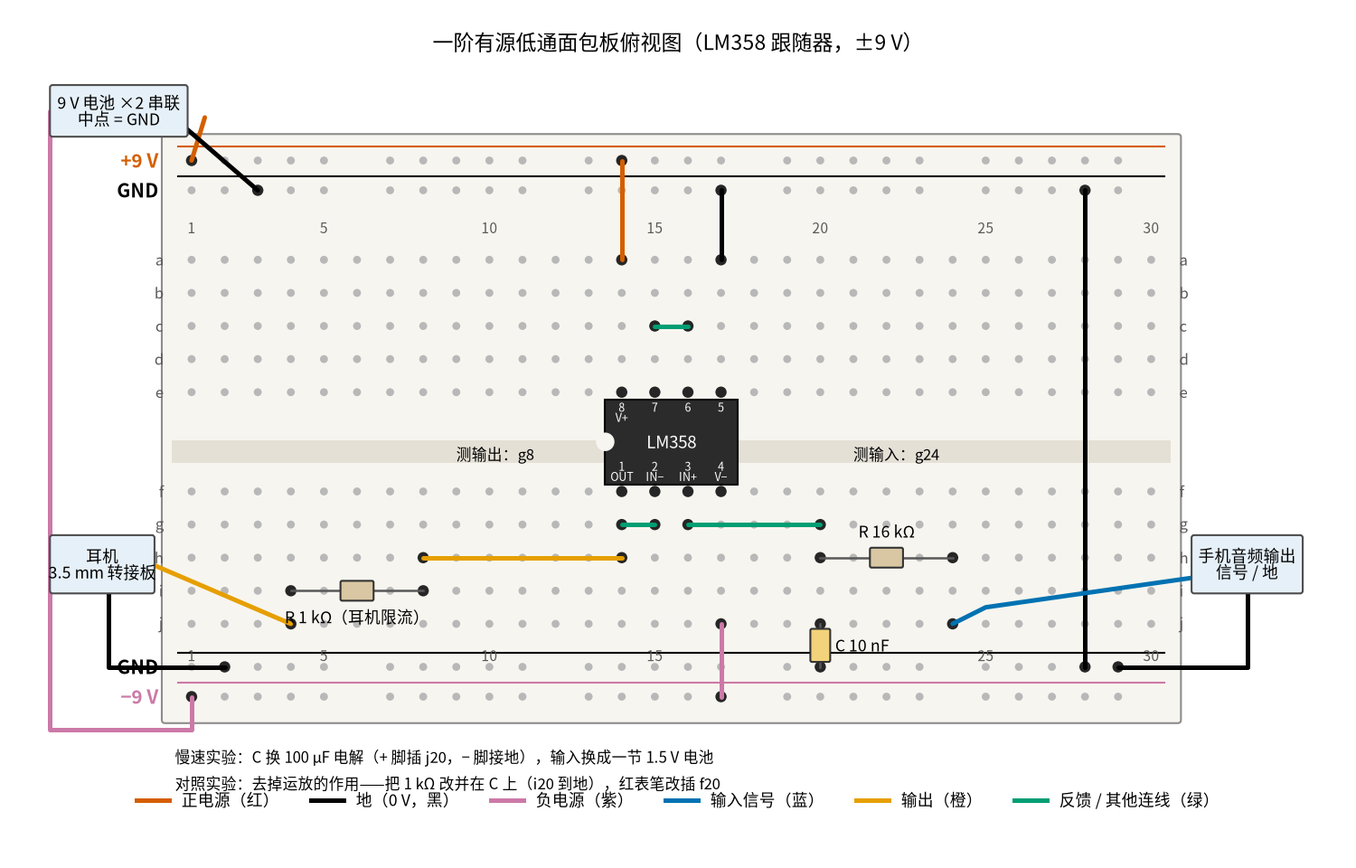
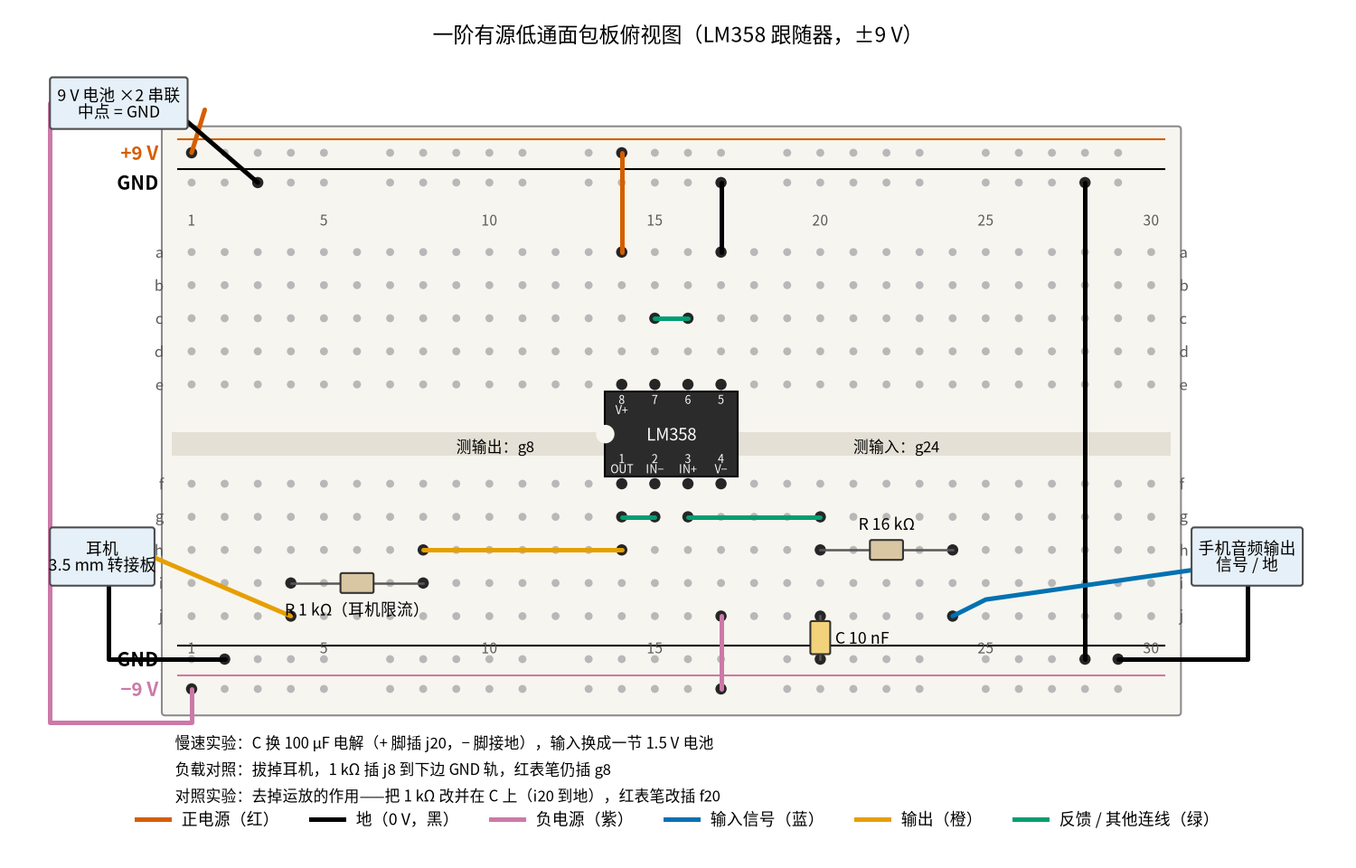
fix: 15 ⑤注记；docs: README 总表更新、AUTHOR_GUIDE 原理图与色名规则

diff --git a/code/figs/15_figs.py b/code/figs/15_figs.py
@@ -301,8 +301,10 @@ bb.wire((31.3, -4.0), "j24", "sig", via=[(25.0, -4.9)])
 bb.wire((32.9, -4.4), "B-29", "gnd", via=[(32.9, -6.7)])
 bb.note(9.0, -0.3, "测输出：g8", va="center")
 bb.note(21.0, -0.3, "测输入：g24", va="center")
-bb.note(0.5, -9.6, "慢速实验：C 换 100 µF 电解（+ 脚插 j20，− 脚接地），输入换成一节 1.5 V 电池", ha="left")
-bb.note(0.5, -10.4, "对照实验：去掉运放的作用——把 1 kΩ 改并在 C 上（i20 到地），红表笔改插 f20", ha="left")
+bb.ax.set_ylim(-12.0, 11.6)                        # 底部多一行注记，往下多留一点（不动孔位）
+bb.note(0.5, -9.4, "慢速实验：C 换 100 µF 电解（+ 脚插 j20，− 脚接地），输入换成一节 1.5 V 电池", ha="left")
+bb.note(0.5, -10.2, "负载对照：拔掉耳机，1 kΩ 插 j8 到下边 GND 轨，红表笔仍插 g8", ha="left")
+bb.note(0.5, -11.0, "对照实验：去掉运放的作用——把 1 kΩ 改并在 C 上（i20 到地），红表笔改插 f20", ha="left")
 bb.legend()
 bb.save(N, "15_p4_1_breadboard.png")
 

diff --git a/notes/progress-log.md b/notes/progress-log.md
@@ -108,3 +108,69 @@
 - 2026-10-23 06:51 25-h-bridge（page4 动手实验篇）：page4 25 完成；4278 汉字，2 张图（25_p4_1_breadboard、25_p4_2_pwm_average），20 个测量点；6 V（4 节 AA）+ L298N 模块（拔 5V-EN 跳线、Arduino 供 5 V 逻辑；DRV8871 下限 6.5 V 不能用 6 V，另写说明），正转/反转/刹车/滑行四态量 OUT1、OUT2 对地与电机两端（1 A 手册饱和压降推算：OUT1 4.30–5.05 V、OUT2 0.85–1.6 V、电机 2.8–4.2 V；滑行输出悬空读数不确定），刹车/滑行停车对比，Arduino D9 490 Hz PWM（25.1/50.2/75.3%）直流挡读平均值 D×V_F；分立 MOS 管直通风险引 page3 与 review（IRLZ44N 74/26/5.5/0.46 A）；PWM 波形、电流纹波、直通尖峰只能看示波器；page3 导航下一页 → page4，page4 下一页 → 20；五项检查全 OK
 - 2026-10-23 06:56 26-pullup-level-shift（page4 动手实验篇）：page4 26 完成；4746 汉字；三部分（按键上拉 + 100 µF/470 µF 慢动作 RC + 74HC14 去抖、LED 对照；BSS138 3.3 V/5 V 双向转换；源漏接反），2 张面包板图、18 个测量点，下一页回到 README，page3 导航下一页改指 page4；新增读数来自 /tmp 下另跑的 ngspice（模型同 review），spice/ 未动；五项检查全 OK
 - 2026-10-23 07:29 第 8 轮收尾（page4 统合）：README 改为每节点 4 页，阅读顺序写明节点内 page1→page4；完成情况表按实测重写（29 节点、116 页、310430 汉字、300 张图、59 块 + 59 脚本、公式 3481/3481、SPICE run.py 29/29 退出码 0）；新增「需要的软件」（ngspice）与「动手实验安全须知」；AUTHOR_GUIDE §1 增补 page4 规则；28 个 page1 的「上一页」改指上一节点 page4，14/25 page3 正文「下一页」与导航对齐，26 page3 改全名，22 page4 纯文字「page2」改链接；check_figs 图号正则放宽到 p1–p9，补 11/12/26 page4 图前引导句；review 报告 7 处坏相对链接修正；23 page3 的 Vishay 6N137 手册链接 404，换成现行地址；全部检查（count_cjk 500/1500、run_blocks 页面与 --scripts、check_figs、check_github_math、相对链接、导航链）OK
+- 13-differentiator（page1–3）：新增 3 张原理图：图 13-p1-7、图 13-p1-8、图 13-p3-3
+- 2026-10-23 09:08 05-precision-rectifier（第 8 轮补电路图，page1–3）：补 5 张电路图：图 05-p1-4（两种接错）、图 05-p2-5（基本型记号 V_oa/V_D/I）、图 05-p2-6（例 3 全波整流两级电路）、图 05-p3-3（排查表第 1/5 行与练习 3/4）、图 05-p3-4（练习 5 精密整流 + RC 平均）；page4 未动；check_figs / check_github_math / count_cjk / run_blocks 通过
+- 2026-10-23 09:10 P1-components-basics（page4 面包板原理图，面包板原理图员）：P1 page4 原理图完成；新增 1 张图（P1_p4_3_schem_lab，151 KB，A 分压 / B RC 充放电 / C 继电器三个子图，元件名、数值、引脚名、①②③、+5 V/GND 与 P1_p4_1_breadboard 一致，标面包板列号与线圈/续流电流方向），紧跟图 P1-p4-1 插入并加「对照看」（面包板连通规则、一条线 = 一个节点、圆点 = 相连）；新建 code/figs/lab_schem.py（每节点一个函数、NODES 字典登记，python code/figs/lab_schem.py [NN ...]）；page4 4322 汉字，count_cjk / check_figs / check_github_math 全 OK；发现正文 LED 续流演示的插孔（c21、c23、d23、d24）在上半块，与下半块线圈不连通，已记入报告未改
+- 14-voltage-comparator（page1–3）：新增 4 张原理图：图 14-p1-4、图 14-p2-3、图 14-p3-4、图 14-p3-5
+- 2026-10-23 09:12 P1-components-basics（page4 接线修正，面包板原理图员）：「没有示波器怎么办」LED 续流演示第 2 步孔位改为 1N4148 阴极 f21、阳极 f23，LED 长脚 h24、短脚 h23（原 c21/c23/d24/d23 在上半块，与线圈不连通），并补一句说明为何要插下半块；原理图 P1_p4_3 与「对照看」不涉及这些孔，无需改；page4 4368 汉字，三项检查 OK
+- 2026-10-23 09:12 P1-components-basics（第 8 轮补电路图，page1–3）：补 6 张电路图：图 P1-p1-5（续流二极管接法）、图 P1-p2-8（分压器空载 / 接 R_L / R2∥R_L 等效对比）、图 P1-p2-9（线圈断电两种接法）、图 P1-p2-10（RC 充放电电路）、图 P1-p3-4（练习 6 错误串联回路）、图 P1-p3-5（带负载分压器，取舍图与练习 3 共用）；page4 未动；check_figs / check_github_math / count_cjk / run_blocks 通过
+- 2026-10-23 09:12 P2-semiconductor-basics（第 8 轮补电路图，page1–3）：补 8 张电路图：图 P2-p2-6（电源串电阻串二极管 / 例 1 LED 限流）、图 P2-p2-7（NPN 开关电路）、图 P2-p2-8（P 沟道高边开关 + 上拉）、图 P2-p3-3（扫描一电路）、图 P2-p3-4（练习 1）、图 P2-p3-5（练习 4 栅极悬空）、图 P2-p3-6 / P2-p3-7（练习 5 原接法与改法）；page4 未动；check_figs / check_github_math / count_cjk / run_blocks 通过
+- 2026-10-23 09:12 06-bridge-rectifier（第 8 轮补电路图，page1–3）：补 8 张电路图：图 06-p1-4（正负半周电流路径）、图 06-p1-5（12 V/75 Ω/2200 µF 仿真电路）、图 06-p2-5（截止二极管的反向电压）、图 06-p2-6（仿真模型含 1 Ω 内阻）、图 06-p2-7（例 3 半波整流+电容）、图 06-p3-3（示波器地夹接错/正确）、图 06-p3-4（电容扫描电路）、图 06-p3-5（练习 3 泄放电阻）、图 06-p3-6（练习 4 R/2 错装成 R）；page4 未动；检查全 OK
+- 15-active-filter（page1–3）：新增 4 张原理图：图 15-p1-3（负载并在电容上 vs 接在跟随器输出端）、图 15-p2-4（一阶低通推导用电路，标 I、V_R、V_C）、图 15-p3-3（Sallen-Key 电容正确 vs 接反）、图 15-p3-4（练习 4：高通 + 2 倍同相放大）；正文无错；未动 page4
+- 2026-10-23 09:15 P3-opamp-basics（第 8 轮补电路图，page1–3）：补 6 张电路图：图 P3-p1-4 正/负反馈接法对比、图 P3-p2-4 反相放大与开环、图 P3-p2-5 例 3 单电源、图 P3-p3-3 第二节电源对比电路、图 P3-p3-4 练习 2 三种接法、图 P3-p3-5 练习 4 中点偏置；page4 未动；check_figs / check_github_math / count_cjk / run_blocks 通过
+- 16-oscillator（page1–3）：新增 5 张原理图：图 16-p2-5（双电源 vs 单电源 2.5 V 偏置点）、图 16-p2-6（二极管稳幅）、图 16-p2-7（文氏桥接过零比较器）、图 16-p3-3（无稳幅 vs 二极管稳幅）、图 16-p3-4（练习 4：1 Hz LED 闪烁）；正文无错；未动 page4
+- 2026-10-23 09:15 21-mosfet-switch（第 8 轮补电路图，page1–3）：补 6 张电路图：图 21-p1-3（N 沟道放高边）、图 21-p2-4（栅极充电等效电路 C_GS/C_GD）、图 21-p2-5（关断瞬间有无续流二极管对比）、图 21-p3-4（R_G/R_GS 分压 10 kΩ vs 1 kΩ）、图 21-p3-5（练习 5 的 24 V 高边开关）、图 21-p3-6（练习 5 改法一）；page4 未动；count_cjk / run_blocks / check_figs / check_github_math 通过
+- 2026-10-23 09:15 22-bjt-relay-driver（第 8 轮补电路图，page1–3）：补 8 张电路图：图 22-p1-4（引脚直接推线圈·错误示范）、图 22-p2-5（推导一电路与数值）、图 22-p2-6（关断瞬间有无 D1 对比）、图 22-p2-7（第六节低压实验电路）、图 22-p3-3（续流二极管正确/接反）、图 22-p3-4（基极下拉 10 kΩ）、图 22-p3-5（练习 2：3.3 V 驱动 12 V 继电器）、图 22-p3-6（练习 4：12 V 稳压管钳位）；page4 未动；检查全部通过
+- 2026-10-23 09:16 07-emitter-follower（第 8 轮补电路图，page1–3）：补 7 张电路图：图 07-p1-4（分压器直接带 50 Ω）、图 07-p1-5（低压实验两种接法）、图 07-p2-5（软电源内阻 ÷(β+1) 及等效）、图 07-p2-6（第七节低压动手实验）、图 07-p3-3（基极 470 Ω：反馈取运放输出 vs 取发射极）、图 07-p3-4（练习 1/2 电路）、图 07-p3-5（练习 4 推挽接法）；例题引用图 07-p2-1；正文无错；page4 未动；检查全部通过
+- 2026-10-23 09:16 P2-semiconductor-basics（page4 面包板原理图，面包板原理图员）：lab_schem.py 新增 node_P2，生成 img/P2_p4_3_schem_lab.png（179 KB，A 二极管 / B 三极管开关 / 电位器 / C 稳压管），插在图 P2-p4-1 题注后；正文第 2 步改正：+9 V 是下面靠里那条轨、GND 是最下面靠外那条（原文两条都写成靠外）；page4 3825 汉字，三项检查 OK
+- 2026-10-23 09:16 01-inverting-amp（第 8 轮补电路图，page1–3）：补 2 张电路图：图 01-p3-3 信号源内阻与 R1 串联、图 01-p3-4 练习 4 两路混音（电阻待求）；page1/page2 已有电路图无需补；page4 未动；check_figs / check_github_math / count_cjk / run_blocks 通过
+- 17-self-locking（page1–3）：新增 5 张原理图：图 17-p2-4（正确接法与错误①②）、图 17-p2-5（例 3 指示灯 HL1/HL2）、图 17-p2-6（12 V 低压实验原理图）、图 17-p3-4（二线 vs 三线控制）、图 17-p3-5（控制线压降等效电路）；正文无错；未动 page4
+- 2026-10-23 09:18 02-noninverting-amp（第 8 轮补电路图，page1–3）：补 3 张电路图：图 02-p2-4 例 3 同相加法器、图 02-p3-3 交流耦合有无直流通路对比、图 02-p3-4 练习 4 单电源 2.5 V 偏置；page1 已有电路图无需补；page4 未动；check_figs / check_github_math / count_cjk / run_blocks 通过
+- 2026-10-23 09:19 08-linear-regulator（第 8 轮补电路图，page1–3）：补 5 张电路图：图 08-p1-4（稳压管 + 射极跟随器）、图 08-p2-4（纹波经 R_Z/r_Z 漏到基准）、图 08-p2-5（LM317 接法）、图 08-p3-3（第五节实验接法，180 Ω/18 Ω 切换）、图 08-p3-4（7812 保护二极管、LM317 假负载）；正文修正：page3 第五节「按图搭电路」没有图号，改为图 08-p3-3；page4 未动；检查全部通过
+- 2026-10-23 09:19 P3-opamp-basics（page4 面包板原理图，面包板原理图员）：lab_schem.py 新增 node_P3（与 01/02 共用 _lm358_amp/_lm358_follower/_supply），生成 img/P3_p4_3_schem_lab.png（167 KB，反相 ×10 + 另一半跟随器 + 两种电源接法，标 LM358 引脚号），插在图 P3-p4-1 题注后；正文接线与面包板图一致，未改正文；page4 3839 汉字，三项检查 OK
+- 2026-10-23 09:19 01-inverting-amp（page4 面包板原理图，面包板原理图员）：新增 node_01，生成 img/01_p4_3_schem_lab.png（184 KB，含错误接法 M 接 V−），插在图 01-p4-1 题注后；正文接线与面包板图一致，未改正文；page4 3664 汉字，三项检查 OK
+- 2026-10-23 09:19 02-noninverting-amp（page4 面包板原理图，面包板原理图员）：新增 node_02，生成 img/02_p4_3_schem_lab.png（197 KB，同相放大 + 三种电源接法），插在图 02-p4-1 题注后；正文接线与面包板图一致，未改正文；面包板图上蓝线 g9→g16 画得正好压过 ② 的 g12 孔，易误读，已记入报告未改图；page4 3543 汉字，三项检查 OK
+- 2026-10-23 09:19 03-voltage-follower（第 8 轮补电路图，page1–3）：补 2 张电路图：图 03-p2-4（例 1 直接接 2 kΩ 模块 vs 经跟随器）、图 03-p3-3（跟随器串 R_iso 33 Ω 驱动 0.1 μF）；page1 已有电路图无需补；page4 未动；check_figs / check_github_math / count_cjk / run_blocks 通过
+- 18-interlock（page1–3）：新增 5 张原理图：图 18-p2-4（12 V 低压互锁实验原理图）、图 18-p3-3（只做按钮互锁 vs 双重互锁）、图 18-p3-4（练习 2 自己的常闭 vs 对方的常闭）、图 18-p3-5（练习 3 对调两相 vs 轮换一格）、图 18-p3-6（练习 4 顺序控制）；正文无错；未动 page4
+- 2026-10-23 21:21 04-differential-amp（第 8 轮补电路图，page1–3）：补 2 张电路图：图 04-p3-3（V1 一侧串信号源内阻 R_s）、图 04-p3-4（练习 4 采样电阻测电机电流，电阻值待选）；page1/page2 已有电路图无需补；page4 未动；check_figs / check_github_math / count_cjk / run_blocks 通过
+- 2026-10-23 21:21 09-switching-power-supply（第 8 轮补电路图，page1–3）：补 4 张电路图：图 09-p1-4（开关闭合/断开时的电流路径）、图 09-p2-6（伏秒平衡推导的两个等效电路）、图 09-p3-3（回路 1、回路 2 与热点回路）、图 09-p3-4（效率与纹波实验接法）；例题加注所用电路图号；正文无错；page4 未动；检查全部通过
+- 19-star-delta-start（page1–3）：新增 3 张原理图：图 19-p2-6（12 V 实验指示灯与线圈二极管）、图 19-p2-7（实验第 4 步跳线短接 KMY 常闭）、图 19-p3-3（练习 2 去掉 vs 装回 KMY 常闭）；正文无错；未动 page4
+- 2026-10-23 21:23 10-zener-regulator（第 8 轮补电路图，page1–3）：补 7 张电路图：图 10-p1-4（只用电阻分压 vs 接上稳压管）、图 10-p2-4（击穿模型与变化量电路）、图 10-p2-5（负载扫描的电流源接法）、图 10-p2-6（例 1、例 2 电路）、图 10-p3-3（验证窗口实验接法）、图 10-p3-4（稳压管接反、没串限流电阻）、图 10-p3-5（练习 2、练习 4 电路）；正文无错；page4 未动；检查全部通过
+- 2026-10-23 21:24 20-two-way-switch：page1–3 补原理图 5 张（图 20-p1-4 两开关串/并联，20-p2-4 三种接错，20-p2-5 低压实验第 2/6 步与测量点，20-p3-3 跨线 A 断，20-p3-4 五地控制）；代码追加到 code/figs/20_figs.py；四项检查通过；未发现文字错误；未改 page4。
+- 2026-10-23 21:25 23-optocoupler（第 8 轮补电路图，page1–3）：补 10 张电路图：图 23-p1-4（断电测 GND1–GND2）、23-p2-4（第五步等效 RC 电路）、23-p2-5（例 1、例 3 电路）、23-p2-6（低压实验接线与表笔）、23-p2-7（Arduino 内部上拉接法）、23-p3-3（泄放电阻 / 4N25 基射电阻）、23-p3-4（6N137 接法）、23-p3-5（过零检测电路示意）、23-p3-6（练习 1/3/5 电路）、23-p3-7（练习 4 地线连通）；代码追加到 code/figs/23_figs.py；正文无错（仅一处图注去掉公式以便 GitHub 渲染）；page4 未动；检查全部通过
+- 2026-10-23 21:25 11-overload-protection（第 8 轮补电路图，page1–3）：补 4 张电路图：图 11-p1-3（量的接法：电机-开关-采样电阻串联，V=I·RS 送比较器）、图 11-p2-3（推导一门限等效电路 (a) 输出高 RH 经 RPU 接 5 V / (b) 跳闸后 RH 接地）、图 11-p3-3（采样线接法 (a) 错：采样地接大电流地线远端 / (b) 对：RS 两端单独引线）、图 11-p3-4（练习 4 保险丝代替电子保护）；例题 1–3 沿用图 11-p2-1；正文无错；page4 未动；检查全部通过
+- 2026-10-23 21:28 12-integrator（第 8 轮补电路图，page1–3）：补 5 张电路图：图 12-p1-4（(a) 无源 RC / (b) 运放积分器对比）、图 12-p1-5（示波器测试接法：信号发生器、CH1 输入、CH2 输出）、图 12-p2-4（例题 3 斜坡发生器带清零开关；例题 1、2 沿用图 12-p2-1）、图 12-p3-3（抵消直流偏置 (a) 输入串隔直电容 / (b) 同相端接可调基准）、图 12-p3-4（练习 4 库仑计）；修正 page1「按 图」「就是 图」多余空格；page4 未动；检查全部通过
+- 2026-10-23 第 8 轮 24-isolated-power：page1–3 补电路图 8 张（p1-3 变压器整流、p1-4 断电测两地、p2-5 模块内部、p2-6 例 1、p2-7 例 2 假负载、p2-8 实验接线、p3-3 假负载/稳压管钳位、p3-4 练习 4 LDO），代码追加到 24_figs.py；page4 未动；检查全过。
+- 2026-10-23 09:36 03-voltage-follower（page4 面包板原理图，面包板原理图员）：图 03-p4-1 后插入图 03-p4-3（03_p4_3_schem_lab.png，181 KB）+ 对照看；lab_schem.py 增 node_03；三项检查通过（3900 汉字）；面包板图 g10→g16 蓝线画成直穿第 14、15 列，仅报告。
+- 2026-10-23 09:36 04-differential-amp（page4 面包板原理图，面包板原理图员）：图 04-p4-1 后插入图 04-p4-3（04_p4_3_schem_lab.png，41 KB）+ 对照看；增 node_04；三项检查通过（4700 汉字）；面包板图注「第 12 步换 10k」与正文第 13、14 步不符，仅报告。
+- 2026-10-23 09:36 05-precision-rectifier（page4 面包板原理图，面包板原理图员）：图 05-p4-1、05-p4-2 后分别插入图 05-p4-3、05-p4-4（172 KB、181 KB）+ 对照看；增 node_05；修正正文「电路图见原理与实现篇」→ 基本型见直觉篇第二节、改进型见原理与实现篇第 3 节；三项检查通过（4155 汉字）。
+- 2026-10-23 09:36 06-bridge-rectifier（page4 面包板原理图，面包板原理图员）：图 06-p4-1 后插入图 06-p4-2（06_p4_2_schem_lab.png，162 KB）+ 对照看；增 node_06；三项检查通过（4057 汉字）；面包板图 ~1 线画过上方两条轨、图例「0 V 地线」应为「直流 −」，仅报告。
+- 2026-10-23 09:36 07-emitter-follower（page4 面包板原理图，面包板原理图员）：图 07-p4-1、07-p4-2 后分别插入图 07-p4-3、07-p4-4（137 KB、87 KB）+ 对照看；增 node_07；三项检查通过（3226 汉字）；正文接线无误。
+- 2026-10-23 21:38 25-h-bridge（page1–3 补电路图，第 8 轮）：新增 7 张——p1-4 PWM 调速开关状态；p2-4 DRV8871 接法、p2-5 驱动/刹车/滑行电流路径；p3-3 R_ILIM 32 kΩ、p3-4 死区模型电路、p3-5 防反接二极管回灌+TVS/C_B 补救、p3-6 练习 4 分立方案框图；正文补引导句及例1/例3/练习1/推导三引用，死区模型补写 10 mΩ 内阻；page4 未动；检查全过（1629/2781/2983 汉字）。
+- 第 8 轮补电路图 26-pullup-level-shift：page1–page3 补 9 张原理图：26-p1-4、26-p2-4、26-p2-5、26-p2-6、26-p2-7、26-p3-3、26-p3-4、26-p3-5、26-p3-6（page4 未改）
+- 2026-10-23 09:54 04-common-emitter-amp（page4 面包板原理图，面包板原理图员）：复查 04_p4_3_schem_lab.png——体积小是 shrink_png 调色板量化所致（2054×1856），内容和分辨率完整；修正 a14/j17 灰色孔位标注重叠后重新生成并逐图查看。
+- 2026-10-23 09:54 08-linear-regulator（page4 面包板原理图，面包板原理图员）：图 08-p4-1 后插入图 08-p4-2（08_p4_2_schem_lab.png，7805 标 1 IN / 2 GND / 3 OUT）及「对照看」；CJK 3173，check_figs、GitHub 公式检查通过；正文未改。
+- 2026-10-23 09:54 09-switching-power-supply（page4 面包板原理图，面包板原理图员）：图 09-p4-1 后插入图 09-p4-2（09_p4_2_schem_lab.png，模块标 IN+/IN−/OUT+/OUT−）及「对照看」；CJK 3154，三项检查通过；正文未改。
+- 2026-10-23 09:54 10-zener-regulator（page4 面包板原理图，面包板原理图员）：图 10-p4-1 后插入图 10-p4-2（10_p4_2_schem_lab.png，稳压管阴极朝上、I_R = I_Z + I_L 电流箭头）及「对照看」；CJK 2739，三项检查通过；正文未改。
+- 2026-10-23 09:54 11-overload-protection（page4 面包板原理图，面包板原理图员）：图 11-p4-1 后插入图 11-p4-2（11_p4_2_schem_lab.png，7805 引脚、LM393 B 组 5/6/7/8/4、IRLZ44N G/D/S）及「对照看」；CJK 3420，三项检查通过；正文未改。
+- 2026-10-23 09:54 12-integrator（page4 面包板原理图，面包板原理图员）：图 12-p4-1 后插入图 12-p4-2（12_p4_2_schem_lab.png，LM358 A 组 1/2/3、电源 8/4、B 组 5/6/7，输入线三种插法、清零线 / 10 MΩ R_f）及「对照看」；CJK 3483，三项检查通过；正文未改。
+- 2026-10-23 09:54 04-differential-amp（page4 面包板原理图，面包板原理图员）：更正上一组记录第一行的节点名——04 复查那条应为 04-differential-amp（误写成 04-common-emitter-amp），内容不变。
+- 2026-10-23 10:09 13-differentiator（page4 面包板原理图，面包板原理图员）：新增 img/13_p4_3_schem_lab.png（41,706 B），插在图 13-p4-1 之后（图 13-p4-3 + 对照看）；page4 修正 8 处「g25」→「h24」（第 25 列没接东西，输出在第 24 列）；面包板图注「红表笔 g25」有误、正文红线/紫线与图例颜色名不一致，仅报告。
+- 2026-10-23 10:09 14-voltage-comparator（page4 面包板原理图，面包板原理图员）：新增 img/14_p4_2_schem_lab.png（38,424 B），插在图 14-p4-1 之后（图 14-p4-2 + 对照看）；接线与正文一致，未改正文；「红线」与图例「正电源」/朱红不一致，仅报告。
+- 2026-10-23 10:09 15-active-filter（page4 面包板原理图，面包板原理图员）：新增 img/15_p4_3_schem_lab.png（39,306 B），插在图 15-p4-1 之后（图 15-p4-3 + 对照看）；接线一致，未改正文；「红线 a14」颜色名、测量⑥红表笔 j20 已被电容占用，仅报告。
+- 2026-10-23 10:09 16-oscillator（page4 面包板原理图，面包板原理图员）：新增 img/16_p4_3_schem_lab.png（39,193 B），插在图 16-p4-1 之后（图 16-p4-3 + 对照看）；接线一致，未改正文；「红线」颜色名与图例不一致，仅报告。
+- 2026-10-23 10:09 17-self-locking（page4 面包板原理图，面包板原理图员）：新增 img/17_p4_3_schem_lab.png（198,074 B），插在图 17-p4-1 之后（图 17-p4-3 + 对照看）；用 schem.py 的 Coil/ContactNO/ContactNC/PushNO/PushNC/LampX，点线标「磁力带动（不是导线）」；接线一致，未改正文；「红线 a13」「第 29 列红线」与图例「正电源」/朱红不一致，仅报告。
+- 2026-10-23 10:35 18-interlock（page4 面包板原理图，面包板原理图员）：新增 img/18_p4_3_schem_lab.png（44,269 B），插在图 18-p4-1 之后（图 18-p4-3 + 对照看）；接线与面包板图一致，page4 无接线更正；颜色叫法按新图例改 7 处。
+- 2026-10-23 10:35 19-star-delta-start（page4 面包板原理图，面包板原理图员）：新增 img/19_p4_3_schem_lab.png（57,379 B），插在图 19-p4-1 之后（图 19-p4-3 + 对照看）；接线一致，无更正；颜色叫法改 6 处。
+- 2026-10-23 10:35 20-two-way-switch（page4 面包板原理图，面包板原理图员）：新增 img/20_p4_3_schem_lab.png（120,775 B）、img/20_p4_4_schem_lab.png（143,165 B），分别插在图 20-p4-1、20-p4-2 之后；接线一致，无更正；颜色叫法改 11 处。
+- 2026-10-23 10:35 21-mosfet-switch（page4 面包板原理图，面包板原理图员）：新增 img/21_p4_3_schem_lab.png（159,037 B），插在图 21-p4-1 之后，标 G·a15 / D·a16 / S·a17；接线一致，无更正；颜色叫法改 1 处。
+- 2026-10-23 10:35 22-bjt-relay-driver（page4 面包板原理图，面包板原理图员）：新增 img/22_p4_2_schem_lab.png（200,687 B），插在图 22-p4-1 之后，标 E·a15 / B·a16 / C·a17，线圈侧与触点侧用点线「磁力带动（不是导线）」；接线一致，无更正；颜色叫法改 4 处。
+- 2026-10-23 10:35 15-active-filter（page4 面包板原理图，面包板原理图员）：测量⑥ j20 已插着 C，改为 1 kΩ 插 i20 到地、红表笔改插 f20（page4 3 处，lab_schem.py node_15 两处文字），重出 15_p4_3_schem_lab.png（39,047 B）；面包板图注「j20 到地」仅报告未改。
+- 2026-10-23 10:35 全部 page4 + lab_schem.py（page4 面包板原理图，面包板原理图员）：按各节点新图例统一颜色叫法——朱红→红、红紫→紫、蓝绿→绿（page4 共 25 个文件 205 处，lab_schem.py 54 处，含注释）；黄色测量圈（bb_probe/probe）保留「黄色」；13 原理图注释「g25」随新面包板图改为 h24；重出全部 28 张原理图。
+- 2026-10-23 10:35 全部 page4（page4 面包板原理图，面包板原理图员）：更正上一行计数——本轮 page4 颜色叫法共改 25 个文件 192 处（不是 205 处）；19–22 之前已改的 22 处不在其内。
+- 2026-10-23 10:50 23-optocoupler（page4 面包板原理图，面包板原理图员）：新增图 23-p4-3（23_p4_3_schem_lab.png，PC817 标 1–4 脚及孔位，输入侧「电池−」轨与输出侧 GND 两个地分开画，中间画隔离带），插在图 23-p4-1 之后并配对照看；三项检查通过。
+- 2026-10-23 10:50 24-isolated-power（page4 面包板原理图，面包板原理图员）：新增图 24-p4-3（24_p4_3_schem_lab.png，B0505S 标 1–4 脚，输入侧 GND 轨与隔离侧 0V 轨分开，画隔离带，A/B/C/D 测量圈），插在图 24-p4-1 之后；三项检查通过。
+- 2026-10-23 10:50 25-h-bridge（page4 面包板原理图，面包板原理图员）：新增图 25-p4-3（25_p4_3_schem_lab.png，L298N 模块端子旁标 L298 引脚号，正转电流箭头，跨线弯，公共地），插在图 25-p4-1 之后；三项检查通过。
+- 2026-10-23 10:50 26-pullup-level-shift（page4 面包板原理图，面包板原理图员）：新增图 26-p4-3（去抖，74HC14 标引脚号）和图 26-p4-4（BSS138 电平转换，G/S/D 标脚号和孔位），分别插在图 26-p4-1、26-p4-2 之后；三项检查通过。
+- 2026-10-23 10:50 15-active-filter（page4 面包板原理图，面包板原理图员）：修正测量⑤与表笔同孔冲突：1 kΩ 改插 j8 到下边 GND 轨，红表笔仍插 g8；page4 测量表⑤行和对照看同步改，图 15-p4-3 的⑤标注改后重出。面包板图 15_p4_1 未改，待他人改 15_figs.py。
+- 2026-10-23 10:50 全量收尾（page4 面包板原理图，面包板原理图员）：29 个节点 page4 的面包板图全部配有原理图（共 33 张 schem_lab）；lab_schem.py 不带参数一次跑完，全部 ≤200 KB（最大 02_p4_3 196.6 KB）；29 个 page4 三项检查全部通过。

diff --git a/README.md b/README.md
@@ -136,7 +136,7 @@ page4「动手实验篇」的电路都是按下面几条设计的，自己改电
 下表是第 8 轮（新增 page4 动手实验篇）合并后的实测值（2026-10-23），每个数都是用仓库里的工具实际跑出来的。
 
 - 每页汉字：`tools/count_cjk.py` 统计正文汉字，依次是 page1 / page2 / page3 / page4；page1–3 每页下限 500，page4 下限 1500。汉字合计是四页之和。
-- 图数：四页实际引用的配图张数，和 `img/` 里的文件数一一对应（没有多余、没有缺失）。
+- 图数：四页实际引用的配图张数，和 `img/` 里的文件数一一对应（没有多余、没有缺失）。每张面包板图旁边配了对应的原理图（`code/figs/lab_schem.py`）。
 - 代码已运行：页面代码块（`tools/run_blocks.py`，每个节点的 page2 仿真块加 page4 实测对照块）加 `code/` 里的仿真和画图脚本（`tools/run_blocks.py --scripts`），全部运行通过。01–04 和 P3 各有 1 个留空让读者填写的练习块，按设计不运行。合计里的 59 个脚本是 29 个 `*_sim.py`、29 个节点画图脚本，加画依赖图的 `code/figs/00_figs.py`。
 - GitHub 公式：`tools/check_github_math.py` 调用 GitHub 渲染接口，渲染出的公式数 / 源文件公式数（四页合计）。
 - SPICE 复核：`spice/NN/run.py` 实际运行、退出码 0；对照表和评级见 `review/spice/NN.md`。
@@ -145,36 +145,36 @@ page4「动手实验篇」的电路都是按下面几条设计的，自己改电
 
 | 知识点 | 页数 | 每页汉字（p1 / p2 / p3 / p4） | 汉字合计 | 图数 | 代码已运行 | GitHub 公式 | SPICE 复核 | 复核通过 | 待补项 |
 |---|---|---|---|---|---|---|---|---|---|
-| [P1 元件速成](P1-components-basics/page1.md) | 4 | 1945 / 3943 / 2702 / 3822 | 12412 | 16 | ✅ 2 块 + 2 脚本 | ✅ 90/90 | ✅ | ✅ | — |
-| [P2 半导体入门](P2-semiconductor-basics/page1.md) | 4 | 2125 / 3106 / 3182 / 3589 | 12002 | 12 | ✅ 2 块 + 2 脚本 | ✅ 149/149 | ✅ | ✅ | 教师 #6 未采纳：说「全书没有开关电源节点」与事实不符（09 就是），改为在 page1 标出各应用的节号 |
-| [P3 运放入门](P3-opamp-basics/page1.md) | 4 | 1914 / 2566 / 2896 / 3578 | 10954 | 10 | ✅ 2 块 + 2 脚本（另 1 个填空块不运行） | ✅ 94/94 | ✅ | ✅ | — |
-| [01 反相放大](01-inverting-amp/page1.md) | 4 | 2068 / 2080 / 2574 / 3416 | 10138 | 11 | ✅ 2 块 + 2 脚本（另 1 个填空块不运行） | ✅ 131/131 | ✅ | ✅ | — |
-| [02 同相放大](02-noninverting-amp/page1.md) | 4 | 1758 / 1625 / 2122 / 3293 | 8798 | 10 | ✅ 2 块 + 2 脚本（另 1 个填空块不运行） | ✅ 110/110 | ✅ | ✅ | — |
-| [03 电压跟随器](03-voltage-follower/page1.md) | 4 | 1667 / 1971 / 2644 / 3667 | 9949 | 10 | ✅ 2 块 + 2 脚本（另 1 个填空块不运行） | ✅ 41/41 | ✅ | ✅ | — |
-| [04 差分放大](04-differential-amp/page1.md) | 4 | 1685 / 1711 / 2269 / 4484 | 10149 | 9 | ✅ 2 块 + 2 脚本（另 1 个填空块不运行） | ✅ 149/149 | ✅ | ✅ | — |
-| [05 精密整流](05-precision-rectifier/page1.md) | 4 | 1696 / 3233 / 3193 / 3730 | 11852 | 11 | ✅ 2 块 + 2 脚本 | ✅ 164/164 | ✅ | ✅ | — |
-| [06 桥式整流](06-bridge-rectifier/page1.md) | 4 | 1896 / 3318 / 3020 / 3803 | 12037 | 10 | ✅ 2 块 + 2 脚本 | ✅ 81/81 | ✅ | ✅ | — |
-| [07 射极跟随器](07-emitter-follower/page1.md) | 4 | 1912 / 2767 / 2274 / 2867 | 9820 | 11 | ✅ 2 块 + 2 脚本 | ✅ 191/191 | ✅ | ✅ | — |
-| [08 线性稳压](08-linear-regulator/page1.md) | 4 | 1576 / 2475 / 3177 / 2921 | 10149 | 9 | ✅ 2 块 + 2 脚本 | ✅ 142/142 | ✅ | ✅ | — |
-| [09 开关电源](09-switching-power-supply/page1.md) | 4 | 2209 / 3109 / 3374 / 2904 | 11596 | 11 | ✅ 2 块 + 2 脚本 | ✅ 80/80 | ✅ | ✅ | — |
-| [10 稳压管稳压](10-zener-regulator/page1.md) | 4 | 1852 / 2732 / 2598 / 2488 | 9670 | 9 | ✅ 2 块 + 2 脚本 | ✅ 156/156 | ✅ | ✅ | — |
-| [11 过载保护](11-overload-protection/page1.md) | 4 | 1511 / 2252 / 2803 / 3158 | 9724 | 7 | ✅ 3 块 + 2 脚本 | ✅ 153/153 | ✅ | ✅ | — |
-| [12 积分电路](12-integrator/page1.md) | 4 | 2133 / 1878 / 2279 / 3206 | 9496 | 9 | ✅ 2 块 + 2 脚本 | ✅ 122/122 | ✅ | ✅ | — |
-| [13 微分电路](13-differentiator/page1.md) | 4 | 3913 / 2354 / 2028 / 3344 | 11639 | 13 | ✅ 2 块 + 2 脚本 | ✅ 215/215 | ✅ | ✅ | — |
-| [14 电压比较器](14-voltage-comparator/page1.md) | 4 | 1990 / 2177 / 2458 / 2702 | 9327 | 9 | ✅ 2 块 + 2 脚本 | ✅ 180/180 | ✅ | ✅ | 教师 #3 未照改：0.72 V 计入 2.2 kΩ 上拉后是对的（0.724 V），保留并注明来由 |
-| [15 有源滤波](15-active-filter/page1.md) | 4 | 1545 / 1854 / 2372 / 2869 | 8640 | 9 | ✅ 2 块 + 2 脚本 | ✅ 159/159 | ✅ | ✅ | 小问题「X7R/C0G 体积对比」未补：正文已有括注 |
-| [16 振荡器](16-oscillator/page1.md) | 4 | 1623 / 2051 / 2506 / 2683 | 8863 | 10 | ✅ 2 块 + 2 脚本 | ✅ 147/147 | ✅ | ✅ | — |
-| [17 自锁](17-self-locking/page1.md) | 4 | 1919 / 2669 / 2291 / 2951 | 9830 | 12 | ✅ 2 块 + 2 脚本 | ✅ 60/60 | ✅ | ✅ | — |
-| [18 互锁](18-interlock/page1.md) | 4 | 1844 / 3279 / 2595 / 2752 | 10470 | 10 | ✅ 2 块 + 2 脚本 | ✅ 58/58 | ✅ | ✅ | — |
-| [19 星三角降压启动](19-star-delta-start/page1.md) | 4 | 1958 / 3759 / 2599 / 2928 | 11244 | 12 | ✅ 2 块 + 2 脚本 | ✅ 32/32 | ✅ | ✅ | — |
-| [20 双控开关](20-two-way-switch/page1.md) | 4 | 1549 / 2479 / 2003 / 2713 | 8744 | 10 | ✅ 2 块 + 2 脚本 | ✅ 38/38 | ✅ | ✅ | — |
-| [21 MOS 管开关](21-mosfet-switch/page1.md) | 4 | 1882 / 3143 / 2922 / 4025 | 11972 | 10 | ✅ 2 块 + 2 脚本 | ✅ 182/182 | ✅ | ✅ | — |
-| [22 三极管开关与继电器驱动](22-bjt-relay-driver/page1.md) | 4 | 1661 / 3032 / 2570 / 4178 | 11441 | 10 | ✅ 2 块 + 2 脚本 | ✅ 129/129 | ✅ | ✅ | — |
-| [23 光耦隔离](23-optocoupler/page1.md) | 4 | 1531 / 2965 / 3042 / 4692 | 12230 | 10 | ✅ 2 块 + 2 脚本 | ✅ 143/143 | ✅ | ✅ | — |
-| [24 隔离电源与数字隔离器](24-isolated-power/page1.md) | 4 | 1966 / 3562 / 4416 / 4087 | 14031 | 10 | ✅ 2 块 + 2 脚本 | ✅ 48/48 | ✅ | ✅ | — |
-| [25 H 桥电机驱动](25-h-bridge/page1.md) | 4 | 1568 / 2591 / 2706 / 4278 | 11143 | 10 | ✅ 2 块 + 2 脚本 | ✅ 115/115 | ✅ | ✅ | — |
-| [26 上拉/下拉电阻与电平转换](26-pullup-level-shift/page1.md) | 4 | 1609 / 2658 / 3027 / 4816 | 12110 | 10 | ✅ 2 块 + 2 脚本 | ✅ 122/122 | ✅ | ✅ | R6（调整阅读顺序）未采纳，26 仍是最后一节 |
-| **合计 29 个** | 116 | — | 共 310430 | 300 | ✅ 59 块 + 59 脚本 | ✅ 3481/3481 | 29/29 | 29/29 | 4 项（见上） |
+| [P1 元件速成](P1-components-basics/page1.md) | 4 | 2092 / 4392 / 2861 / 4366 | 13711 | 23 | ✅ 2 块 + 2 脚本 | ✅ 114/114 | ✅ | ✅ | — |
+| [P2 半导体入门](P2-semiconductor-basics/page1.md) | 4 | 2125 / 3389 / 3302 / 3824 | 12640 | 21 | ✅ 2 块 + 2 脚本 | ✅ 155/155 | ✅ | ✅ | 教师 #6 未采纳：说「全书没有开关电源节点」与事实不符（09 就是），改为在 page1 标出各应用的节号 |
+| [P3 运放入门](P3-opamp-basics/page1.md) | 4 | 1976 / 2619 / 2980 / 3829 | 11404 | 17 | ✅ 2 块 + 2 脚本（另 1 个填空块不运行） | ✅ 97/97 | ✅ | ✅ | — |
+| [01 反相放大](01-inverting-amp/page1.md) | 4 | 2068 / 2080 / 2664 / 3653 | 10465 | 14 | ✅ 2 块 + 2 脚本（另 1 个填空块不运行） | ✅ 132/132 | ✅ | ✅ | — |
+| [02 同相放大](02-noninverting-amp/page1.md) | 4 | 1758 / 1653 / 2173 / 3533 | 9117 | 14 | ✅ 2 块 + 2 脚本（另 1 个填空块不运行） | ✅ 112/112 | ✅ | ✅ | — |
+| [03 电压跟随器](03-voltage-follower/page1.md) | 4 | 1667 / 2065 / 2726 / 3891 | 10349 | 13 | ✅ 2 块 + 2 脚本（另 1 个填空块不运行） | ✅ 41/41 | ✅ | ✅ | — |
+| [04 差分放大](04-differential-amp/page1.md) | 4 | 1685 / 1711 / 2435 / 4690 | 10521 | 12 | ✅ 2 块 + 2 脚本（另 1 个填空块不运行） | ✅ 159/159 | ✅ | ✅ | — |
+| [05 精密整流](05-precision-rectifier/page1.md) | 4 | 1760 / 3324 / 3317 / 4146 | 12547 | 18 | ✅ 2 块 + 2 脚本 | ✅ 166/166 | ✅ | ✅ | — |
+| [06 桥式整流](06-bridge-rectifier/page1.md) | 4 | 2035 / 3437 / 3169 / 4056 | 12697 | 20 | ✅ 2 块 + 2 脚本 | ✅ 83/83 | ✅ | ✅ | — |
+| [07 射极跟随器](07-emitter-follower/page1.md) | 4 | 1988 / 2847 / 2342 / 3224 | 10401 | 20 | ✅ 2 块 + 2 脚本 | ✅ 194/194 | ✅ | ✅ | — |
+| [08 线性稳压](08-linear-regulator/page1.md) | 4 | 1598 / 2547 / 3304 / 3173 | 10622 | 15 | ✅ 2 块 + 2 脚本 | ✅ 149/149 | ✅ | ✅ | — |
+| [09 开关电源](09-switching-power-supply/page1.md) | 4 | 2243 / 3180 / 3434 / 3154 | 12011 | 16 | ✅ 2 块 + 2 脚本 | ✅ 80/80 | ✅ | ✅ | — |
+| [10 稳压管稳压](10-zener-regulator/page1.md) | 4 | 1895 / 2822 / 2706 / 2739 | 10162 | 17 | ✅ 2 块 + 2 脚本 | ✅ 156/156 | ✅ | ✅ | — |
+| [11 过载保护](11-overload-protection/page1.md) | 4 | 1621 / 2301 / 2965 / 3414 | 10301 | 12 | ✅ 3 块 + 2 脚本 | ✅ 158/158 | ✅ | ✅ | — |
+| [12 积分电路](12-integrator/page1.md) | 4 | 2211 / 1964 / 2406 / 3480 | 10061 | 15 | ✅ 2 块 + 2 脚本 | ✅ 122/122 | ✅ | ✅ | — |
+| [13 微分电路](13-differentiator/page1.md) | 4 | 4146 / 2354 / 2162 / 3641 | 12303 | 17 | ✅ 2 块 + 2 脚本 | ✅ 222/222 | ✅ | ✅ | — |
+| [14 电压比较器](14-voltage-comparator/page1.md) | 4 | 2119 / 2298 / 2594 / 3020 | 10031 | 14 | ✅ 2 块 + 2 脚本 | ✅ 187/187 | ✅ | ✅ | 教师 #3 未照改：0.72 V 计入 2.2 kΩ 上拉后是对的（0.724 V），保留并注明来由 |
+| [15 有源滤波](15-active-filter/page1.md) | 4 | 1642 / 1959 / 2541 / 3213 | 9355 | 14 | ✅ 2 块 + 2 脚本 | ✅ 169/169 | ✅ | ✅ | 小问题「X7R/C0G 体积对比」未补：正文已有括注 |
+| [16 振荡器](16-oscillator/page1.md) | 4 | 1623 / 2304 / 2661 / 2990 | 9578 | 16 | ✅ 2 块 + 2 脚本 | ✅ 157/157 | ✅ | ✅ | — |
+| [17 自锁](17-self-locking/page1.md) | 4 | 1919 / 2931 / 2473 / 3286 | 10609 | 18 | ✅ 2 块 + 2 脚本 | ✅ 60/60 | ✅ | ✅ | — |
+| [18 互锁](18-interlock/page1.md) | 4 | 1844 / 3395 / 2952 / 3085 | 11276 | 16 | ✅ 2 块 + 2 脚本 | ✅ 58/58 | ✅ | ✅ | — |
+| [19 星三角降压启动](19-star-delta-start/page1.md) | 4 | 1958 / 3935 / 2678 / 3300 | 11871 | 16 | ✅ 2 块 + 2 脚本 | ✅ 32/32 | ✅ | ✅ | — |
+| [20 双控开关](20-two-way-switch/page1.md) | 4 | 1665 / 2718 / 2185 / 3325 | 9893 | 17 | ✅ 2 块 + 2 脚本 | ✅ 38/38 | ✅ | ✅ | — |
+| [21 MOS 管开关](21-mosfet-switch/page1.md) | 4 | 2011 / 3391 / 3025 / 4337 | 12764 | 17 | ✅ 2 块 + 2 脚本 | ✅ 194/194 | ✅ | ✅ | — |
+| [22 三极管开关与继电器驱动](22-bjt-relay-driver/page1.md) | 4 | 1723 / 3221 / 2690 / 4551 | 12185 | 19 | ✅ 2 块 + 2 脚本 | ✅ 131/131 | ✅ | ✅ | — |
+| [23 光耦隔离](23-optocoupler/page1.md) | 4 | 1554 / 3100 / 3239 / 5056 | 12949 | 21 | ✅ 2 块 + 2 脚本 | ✅ 148/148 | ✅ | ✅ | — |
+| [24 隔离电源与数字隔离器](24-isolated-power/page1.md) | 4 | 2081 / 3734 / 4526 / 4431 | 14772 | 19 | ✅ 2 块 + 2 脚本 | ✅ 51/51 | ✅ | ✅ | — |
+| [25 H 桥电机驱动](25-h-bridge/page1.md) | 4 | 1629 / 2781 / 2983 / 4644 | 12037 | 18 | ✅ 2 块 + 2 脚本 | ✅ 121/121 | ✅ | ✅ | — |
+| [26 上拉/下拉电阻与电平转换](26-pullup-level-shift/page1.md) | 4 | 1687 / 2890 / 3189 / 5394 | 13160 | 21 | ✅ 2 块 + 2 脚本 | ✅ 122/122 | ✅ | ✅ | R6（调整阅读顺序）未采纳，26 仍是最后一节 |
+| **合计 29 个** | 116 | — | 共 329792 | 490 | ✅ 59 块 + 59 脚本 | ✅ 3608/3608 | 29/29 | 29/29 | 4 项（见上） |
 
 另：跨章节报告 S2 写的「100 mA 时 β 约 60」有误（onsemi 2N3904 手册 100 mA 时 h_FE 最小 30），页面没有沿用这个数字，报告原文保留未改。
 

diff --git a/15-active-filter/page4.md b/15-active-filter/page4.md
@@ -58,7 +58,7 @@
 
 **对照看**：面包板的连通规则见 [P1 元件速成 · 动手实验篇](../P1-components-basics/page4.md)：同一列的 a–e、f–j 各自连通，凹槽两边不通。R 的右脚插 h24，和手机蓝线 j24、测量点 g24 同在第 24 列，所以第 24 列整列都是输入；R 的左脚、C 的上脚和绿线 g20 同在第 20 列，这一列就是 RC 的滤波节点，再由 g16 → g20 送到 3 脚。绿短线 g14–g15 让 1 脚和 2 脚相连，运放就成了跟随器，输出电压等于滤波节点电压，却不从节点取电流。输出经橙线 h14 → h8 移到第 8 列，第⑤步的负载 1 kΩ 并在这里（j8 到下边 GND 轨，红表笔仍插 g8），读数不变；第⑥步改并在 C 上（i20 到地，红表笔改插 f20），读数就掉一大截，两个位置在原理图里一眼就能分清。这张原理图就是 [15 有源滤波 · 直觉篇](page1.md) 「电路长什么样」里的一阶有源低通，截止频率的来历见 [15 有源滤波 · 原理与实现篇](page2.md) 「一、一阶低通：截止频率公式」。
 
-图中红色线接 +9 V，黑色线接地，紫色线接 −9 V，蓝色线是手机送来的输入，橙色线是运放输出，绿色线是芯片周围的短接和连线。凹槽里标出了两个测量点：输出在 g8，输入在 g24。图下方两行小字是后面要用到的慢速版和负载对照的改法。
+图中红色线接 +9 V，黑色线接地，紫色线接 −9 V，蓝色线是手机送来的输入，橙色线是运放输出，绿色线是芯片周围的短接和连线。凹槽里标出了两个测量点：输出在 g8，输入在 g24。图下方三行小字是后面要用到的慢速版、负载对照和去掉运放的对照实验的改法。
 
 ## 测量表
 

diff --git a/notes/AUTHOR_GUIDE.md b/notes/AUTHOR_GUIDE.md
@@ -58,6 +58,7 @@
   1. **引导句**：图前一句话告诉读者要看什么，例如「请看图 01-p2-1 里橙色曲线的峰值」。
   2. **图注**：图下一行，格式为 `*图 01-p2-1　反相放大的输入与输出波形*`。
   3. **图后讲解**：至少两三句，说明图里的现象和它说明了什么。
+- **文字讲到电路连接就要配原理图；面包板图旁边要有原理图和「对照看」段。** page4 的每张面包板接线图后面紧跟一张用 `code/figs/lab_schem.py` 画的原理图（文件名 `NN_p4_k_schem_lab.png`，节点旁标出对应的面包板孔位），再写一段以「对照看」开头的文字，把面包板上的孔位、导线和原理图里的元件、节点一一对上。
 - **颜色词必须与图一致**。figstyle 的固定配色（Okabe-Ito 色盲友好色板）如下，正文里照抄这些颜色词：
 
   | 用途 | figstyle 键 | 颜色词 |
@@ -70,6 +71,8 @@
   | 故障、错误情形 | `bad` | 朱红色（带 × 标记） |
   | 理想值 | `good` | 黑色虚线 |
   | 参考线、门限、0V、电源边界 | `ref` | 灰色点线 |
+
+  page4 面包板图的导线图例和正文一律用简单色名（红、紫、绿、蓝、橙、黑），不用上表的「朱红、红紫、蓝绿」。
 
 - 坐标轴标签一律写成「量 / 单位」，例如「电压 / V」「时间 / ms」，用 `figstyle.axlabels(ax, "时间", "ms", "电压", "V")`。
 - 参考线（0V、 $V_{CC}$ 、门限、t = τ 等）用 `figstyle.ref_h` / `ref_v`，统一为灰色点线。
